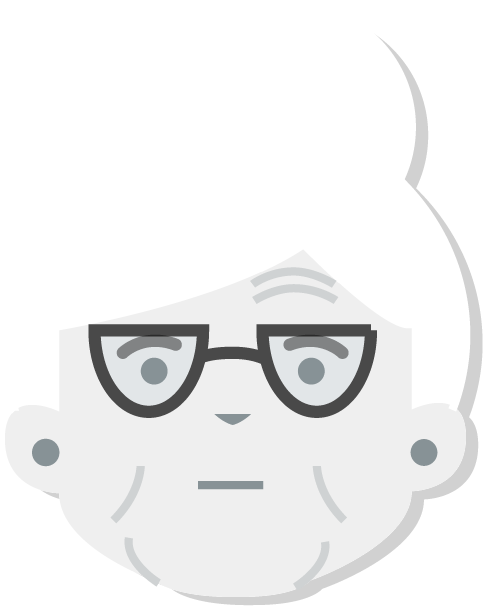
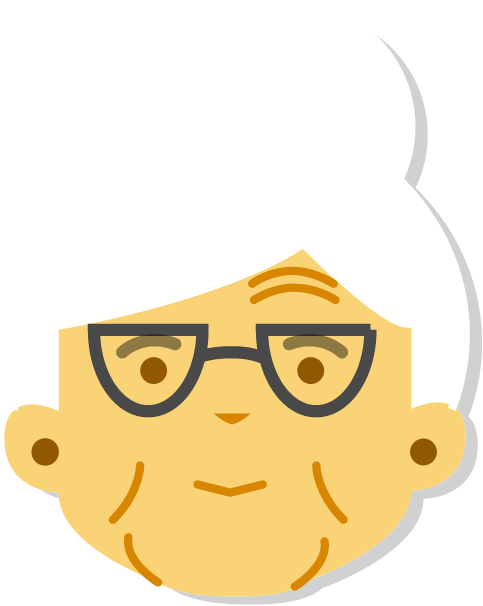
data parsing; granny emotion changing; question providing

diff --git a/src/Room.js b/src/Room.js
@@ -29,13 +29,13 @@ const dimensions = {
 };
 
 const jumpingGrannyImage = require('../assets/opening/jumping-granny.png');
+const questions = require('../assets/questions.json').questions;
 
 const styles = StyleSheet.create({
   container: {
     flex: 1,
     alignItems: 'center',
     justifyContent: 'center',
-    backgroundColor: colors['neutral'],
   },
   preview: {
     height: dimensions.previewHeight,
@@ -47,10 +47,11 @@ const styles = StyleSheet.create({
   jumpingGrannyStyle: {
     width: dimensions.jumpingGrannyWidth,
     height: dimensions.jumpingGrannyHeight,
+    marginTop: 10,
+    marginBottom: 10,
   },
   grannyTextStyle: {
-    fontSize: 30,
-    marginBottom: 20,
+    fontSize: 34,
     color: 'white',
   },
 });
@@ -60,7 +61,22 @@ export default class Room extends Component {
   constructor(props) {
     super(props);
 
+    const startTime = new Date();
+    const key = `${startTime.getFullYear()}-${startTime.getMonth()}-${startTime.getDate()}`;
+
     this.state = {
+      emotionData: {
+        happiness: 0,
+        anger: 0,
+        fear: 0,
+        surprise: 0,
+        contempt: 0,
+        disgust: 0,
+        neutral: 0,
+        sadness: 0,
+      },
+      startTime,
+      key,
       setup: true,
       captureImageInterval: null,
       cntCaptureSound: 0,
@@ -71,10 +87,12 @@ export default class Room extends Component {
       ttsFinishListener: null,
       grannyEmotion: 'neutral',
       containerStyle: StyleSheet.flatten([styles.container, {backgroundColor: colors['neutral']}]),
+      currentQuestion: 0,
+      totalQuestions: questions.length,
     };
 
     TTS.setDefaultLanguage('en-US');
-    TTS.setDefaultRate(0.6);
+    TTS.setDefaultRate(0.4);
 
     this.captureImage = this.captureImage.bind(this);
     this.captureBackground = this.captureBackground.bind(this);
@@ -84,12 +102,12 @@ export default class Room extends Component {
   }
 
   componentDidMount() {
-      this.prepareRecordingPath(this.state.audioPath);
-      DeviceEventEmitter.addListener('recordingProgress', this.captureBackground);
+    this.prepareRecordingPath(this.state.audioPath);
+    DeviceEventEmitter.addListener('recordingProgress', this.captureBackground);
 
-      AudioRecorder.startRecording();
+    AudioRecorder.startRecording();
 
-      this.setupAnimation();
+    this.setupAnimation();
   }
 
   componentWillUnmount() {
@@ -112,7 +130,7 @@ export default class Room extends Component {
   }
 
   captureBackground(data) {
-    console.log('bg', data, this.state.background);
+    //console.log('bg', data, this.state.background);
 
     const background = (data.currentTime !== 0) ? (this.state.background * this.state.cntCaptureSound + data.maxAmplitude) / data.currentTime : 0;
 
@@ -146,17 +164,27 @@ export default class Room extends Component {
 
       if (nextQuestion) this.nextQuestion();
     }
+    if (data.currentTime >= 100) {
+      this.endTalk();
+    }
   }
 
   nextQuestion() {
     console.log('nextQuestion');
+    const { currentQuestion, totalQuestions } = this.state;
 
-    TTS.speak('Hello, Rachel! How are you?');
-    if (this.state.grannyEmotion === 'happy') {
-      this.changeEmotion('neutral');
-    } else {
-      this.changeEmotion('happy');
+    if (currentQuestion >= totalQuestions) {
+      this.endTalk();
+      return;
     }
+
+    const question = questions[this.state.currentQuestion];
+    this.setState({
+      currentQuestion: this.state.currentQuestion+1,
+    });
+    console.log(currentQuestion, totalQuestions, question);
+
+    TTS.speak(question);
   }
 
   finishQuestion() {
@@ -166,7 +194,37 @@ export default class Room extends Component {
     });
   }
 
+  endTalk() {
+    console.log('endTalk');
+    clearInterval(this.state.captureImageInterval);
+    AudioRecorder.stopRecording();
+
+    const endTime = new Date().toISOString();
+
+    // normalize emotion
+    const emotionData = this.state.emotionData;
+    let sum = 0;
+    Object.keys(emotionData).forEach((key) => {
+      sum += emotionData[key];
+    });
+    Object.keys(emotionData).forEach((key) => {
+      emotionData[key] = emotionData[key] / sum;
+    });
+
+    // parse data
+    const data = {
+      emotions: emotionData,
+      time: {
+        startTime: this.state.startTime.toISOString(),
+        endTime,
+      }
+    };
+
+    console.log(this.state.key, data);
+  }
+
   changeEmotion(emotion) {
+    console.log(emotion);
     this.setState({
       grannyEmotion: emotion,
     });
@@ -180,7 +238,30 @@ export default class Room extends Component {
           'Content-Type' : 'application/octet-stream',
         }, data.data)
         .then((res) => {
-          //console.log(res.text());
+          console.log(JSON.parse(res.text()));
+          const data = JSON.parse(res.text());
+          const emotionData = this.state.emotionData;
+
+          data.forEach((record) => {
+            const scores = record.scores;
+            this.setState({
+              emotionData: {
+                happiness: emotionData.happiness + scores.happiness,
+                anger: emotionData.anger + scores.anger,
+                fear: emotionData.fear + scores.fear,
+                surprise: emotionData.surprise + scores.surprise,
+                contempt: emotionData.contempt + scores.contempt,
+                disgust: emotionData.disgust + scores.disgust,
+                neutral: emotionData.neutral + scores.neutral,
+                sadness: emotionData.sadness + scores.sadness,
+              },
+            });
+            const maxKey = Object.keys(scores).reduce(function(a, b){ return scores[a] > scores[b] ? a : b });
+            if (scores[maxKey] !== 0 && maxKey !== this.state.grannyEmotion) {
+              this.changeEmotion(maxKey);
+            }
+          });
+          console.log(emotionData);
         })
         .catch((err) => console.log('Error: ', err));
       })
@@ -194,21 +275,23 @@ export default class Room extends Component {
 
     this.setState({
       setup: false,
-      captureImageInterval: setInterval(this.captureImage, 10000),
+      captureImageInterval: setInterval(this.captureImage, 3000),
       ttsFinishListener: TTS.addEventListener('tts-finish', this.finishQuestion),
     });
   }
 
   render() {
-    const containerStyle = StyleSheet.flatten([styles.container, {backgroundColor: colors[this.state.grannyEmotion]}]);
     return (
       this.state.setup ?
-        <View style={styles.container}>
-          <Text style={styles.grannyTextStyle}>Granny is coming!</Text>
+        <View style={StyleSheet.flatten([styles.container, {backgroundColor: colors['neutral']}])}>
+          <Text style={styles.grannyTextStyle}>KEEP CALM</Text>
+          <Text style={styles.grannyTextStyle}>AND</Text>
           <Animatable.Image animation='bounce' duration={1500} iterationCount='infinite' style={styles.jumpingGrannyStyle} source={jumpingGrannyImage}/>
+          <Text style={styles.grannyTextStyle}>WAIT FOR</Text>
+          <Text style={styles.grannyTextStyle}>GRANNY</Text>
         </View>
       :
-        <View style={containerStyle}>
+        <View style={StyleSheet.flatten([styles.container, {backgroundColor: colors[this.state.grannyEmotion]}])}>
           <Granny emotion={this.state.grannyEmotion}/>
           <Camera
             ref={(cam) => {

diff --git a/src/Granny.js b/src/Granny.js
@@ -21,9 +21,9 @@ const emotionImages = {
   contempt: contemptImage,
   disgust: disgustImage,
   fear: fearImage,
-  happy: happyImage,
-  sad: sadImage,
-  surprised: surprisedImage,
+  happiness: happyImage,
+  sadness: sadImage,
+  surprise: surprisedImage,
 };
 
 const windowWidth = Dimensions.get('window').width;
@@ -67,7 +67,6 @@ export default class Granny extends Component {
   }
 
   renderGranny() {
-    console.log('renderGranny');
     return (<
       Image style={styles.imageStyle} source={this.state.image}
     />);

diff --git a/src/utils/colors.js b/src/utils/colors.js
@@ -1,10 +1,10 @@
 module.exports = {
-  happy: '#ffc107',
-  angry: '#e91e63',
+  happiness: '#ffc107',
+  anger: '#e91e63',
   fear: '#f99556',
   surprise: '#ffeb5b',
   contempt: '#ff5722',
   disgust: '#8bc39a',
   neutral: '#009688',
-  sad: '#03a9f4',
+  sadness: '#03a9f4',
 };
